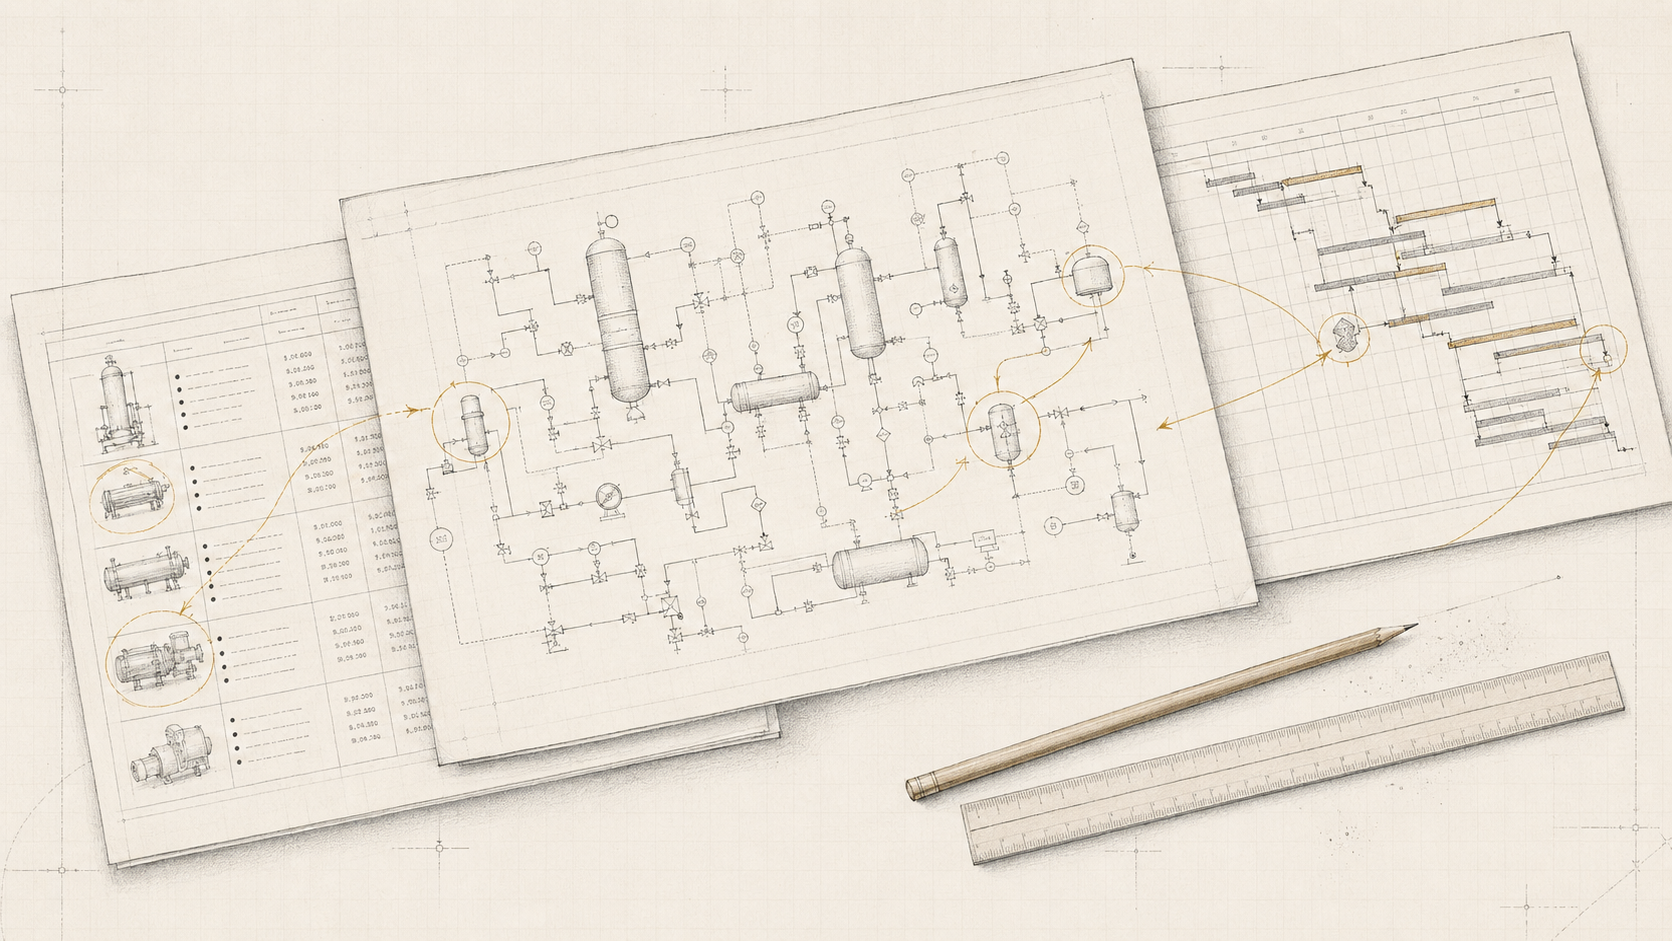
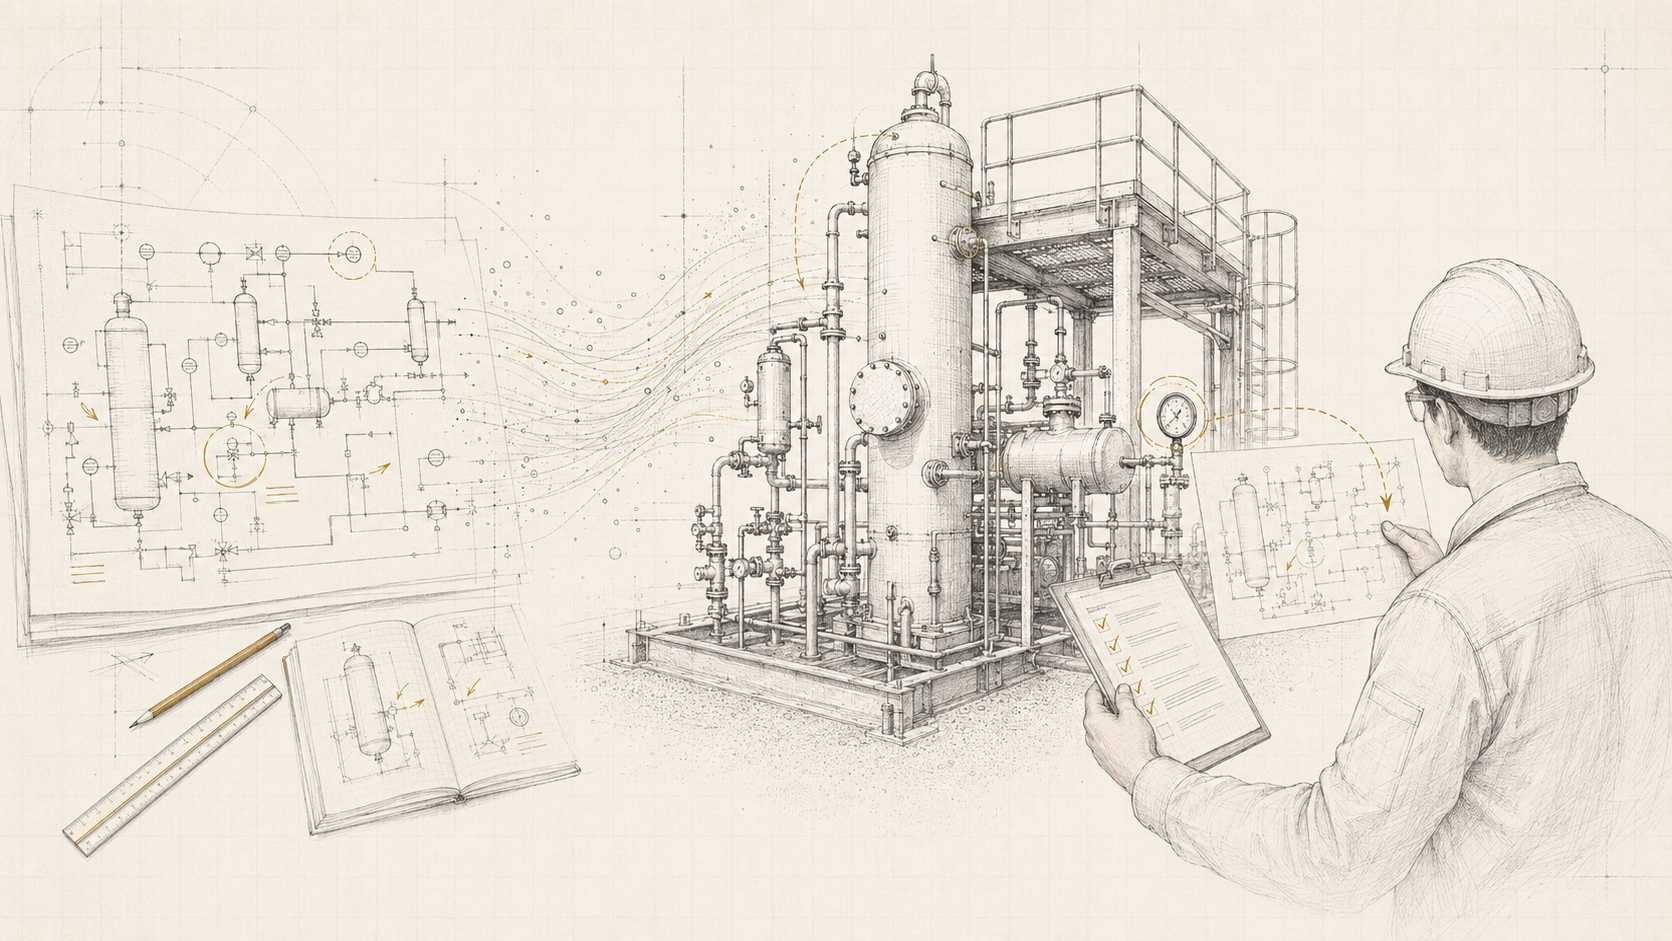
Fix swapped hero/flow images (hero should be helmet-engineer shot, flow should be overlapping-docs shot); add cache-busting query param

Changed region(s): [[0.0, 0.0616, 1.0, 0.9554], [0.9952, 0.4315, 1.0, 0.4931], [0.2488, 0.1849, 0.2799, 0.2157]]

diff --git a/owners-engineering.html b/owners-engineering.html
@@ -49,7 +49,7 @@
     </div>
   </div>
   <div class="hero-visual">
-    <img src="assets/oe-hero.png" alt="発注者側の担当者が設計図書と見積を確認しているイラスト">
+    <img src="assets/oe-hero.png?v=2" alt="発注者側の担当者が設計図書と見積を確認しているイラスト">
     <div class="hero-caption">
       <span>ADVISORY POSITION</span>
       <p>発注者側の技術論点を整理し、<br>メーカー・EPCとの折衝を支援します。</p>
@@ -99,7 +99,7 @@
 
 <section class="section rd-section" id="why">
   <div class="rd-visual">
-    <img src="assets/oe-flow.png" alt="設計図書の確認、対面での折衝、報告書の提出という支援の流れを示すイラスト">
+    <img src="assets/oe-flow.png?v=2" alt="設計図書の確認、対面での折衝、報告書の提出という支援の流れを示すイラスト">
     <span>REVIEW / NEGOTIATION / REPORT</span>
   </div>
   <div class="rd-copy">
